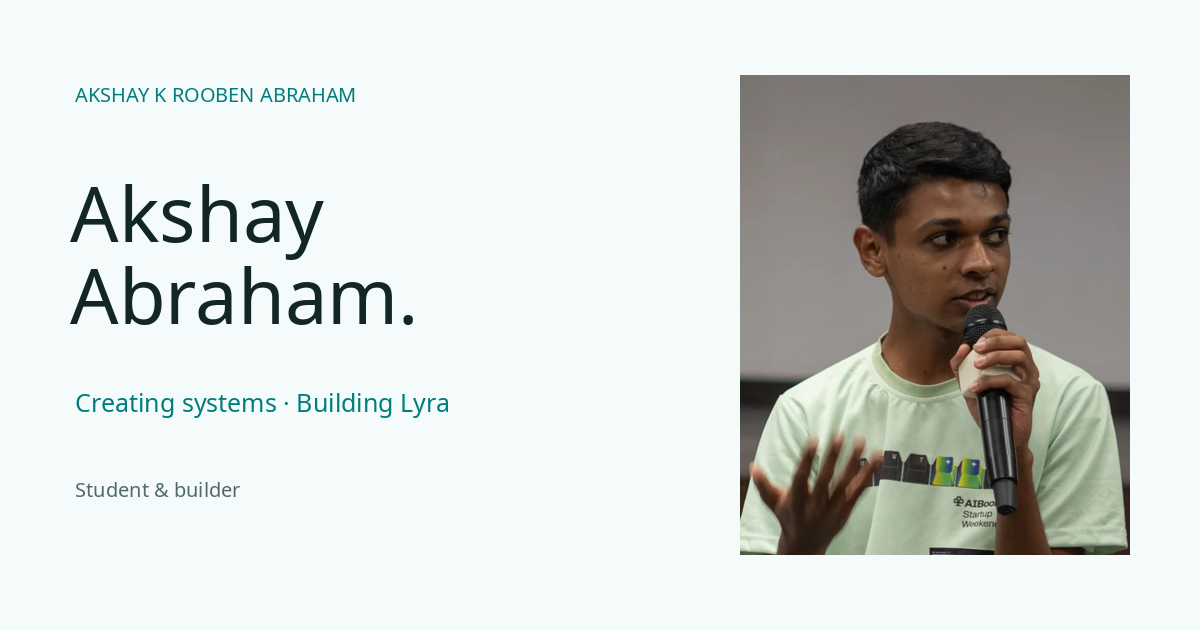
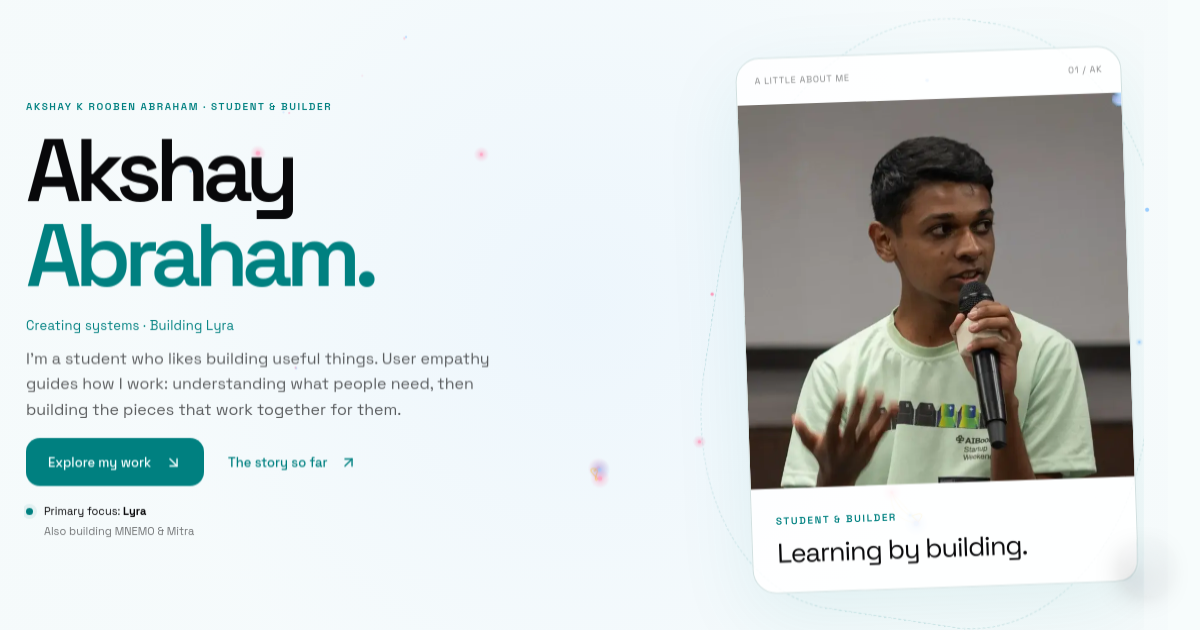
Update portfolio Open Graph image

diff --git a/src/lib/seo.ts b/src/lib/seo.ts
@@ -38,7 +38,7 @@ export function pageSocialMetadata(
           url: socialImage,
           width: 1200,
           height: 630,
-          alt: 'Akshay Abraham speaking at AIBoomi Startup Weekend Kochi',
+          alt: 'Akshay Abraham portfolio introduction with his AIBoomi portrait',
         },
       ],
       locale: 'en_US',
